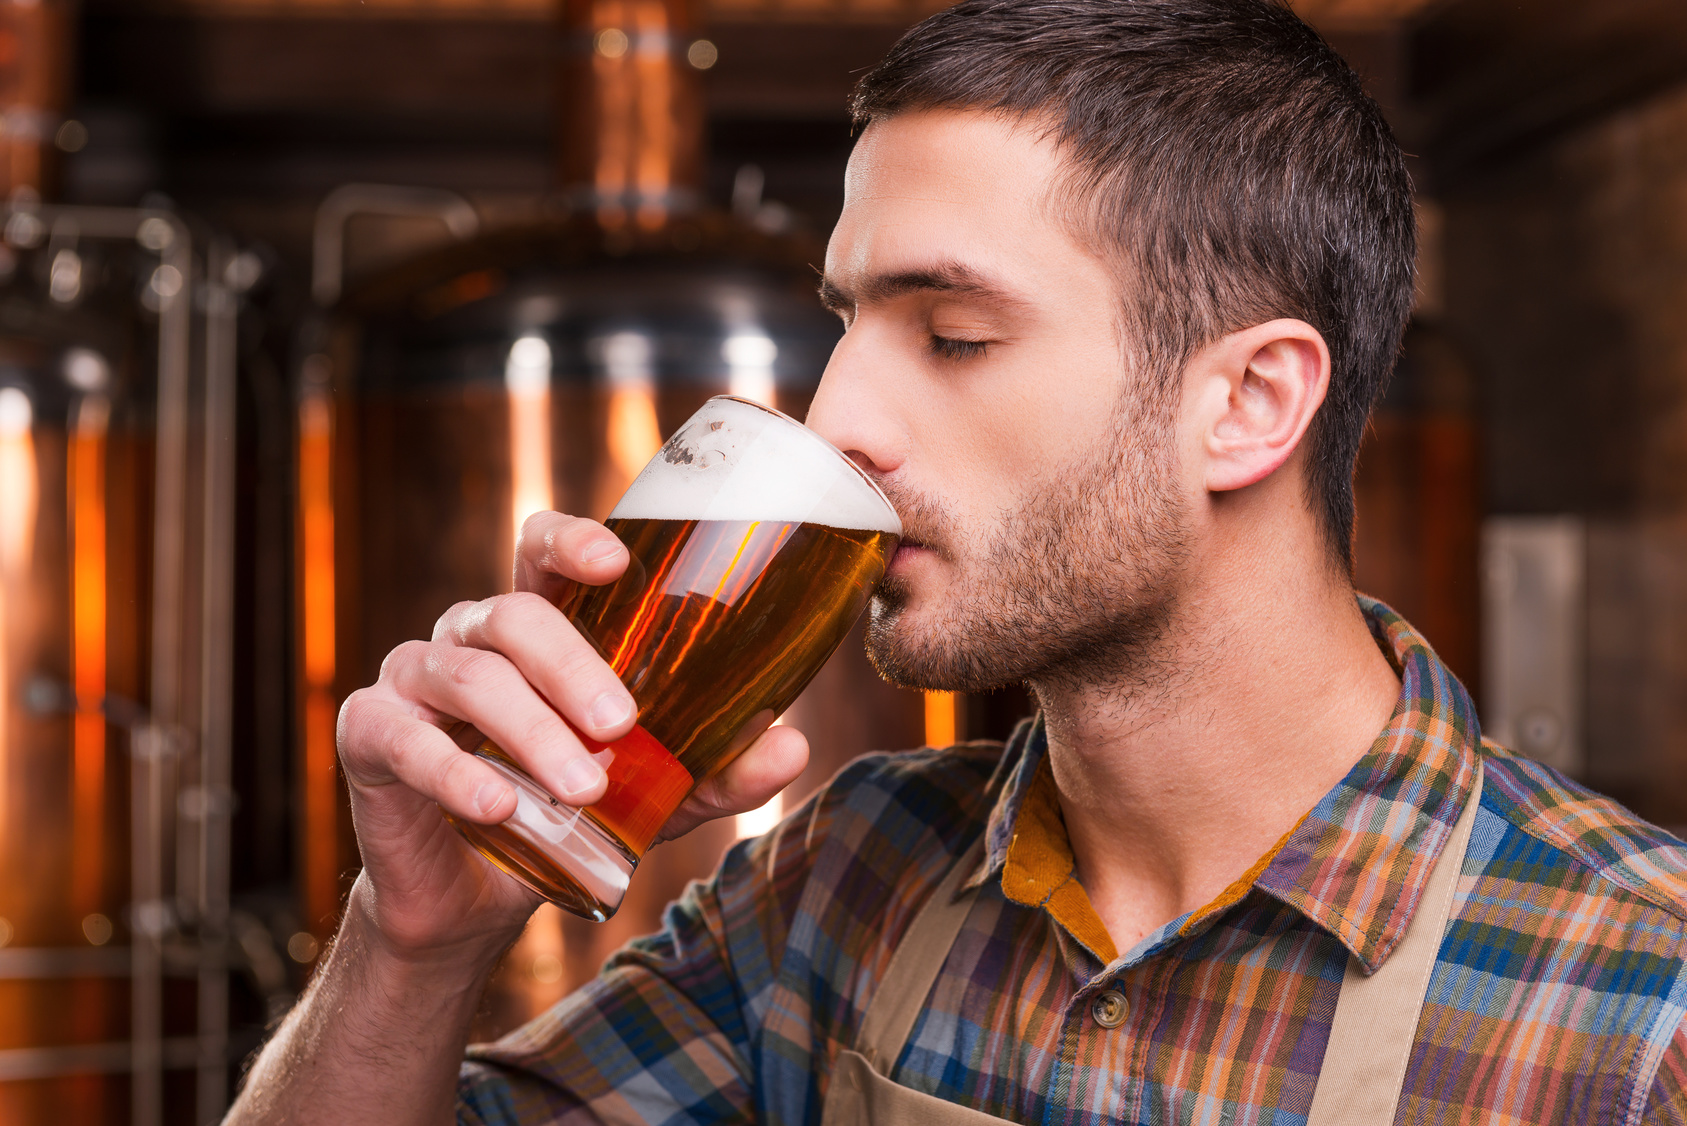
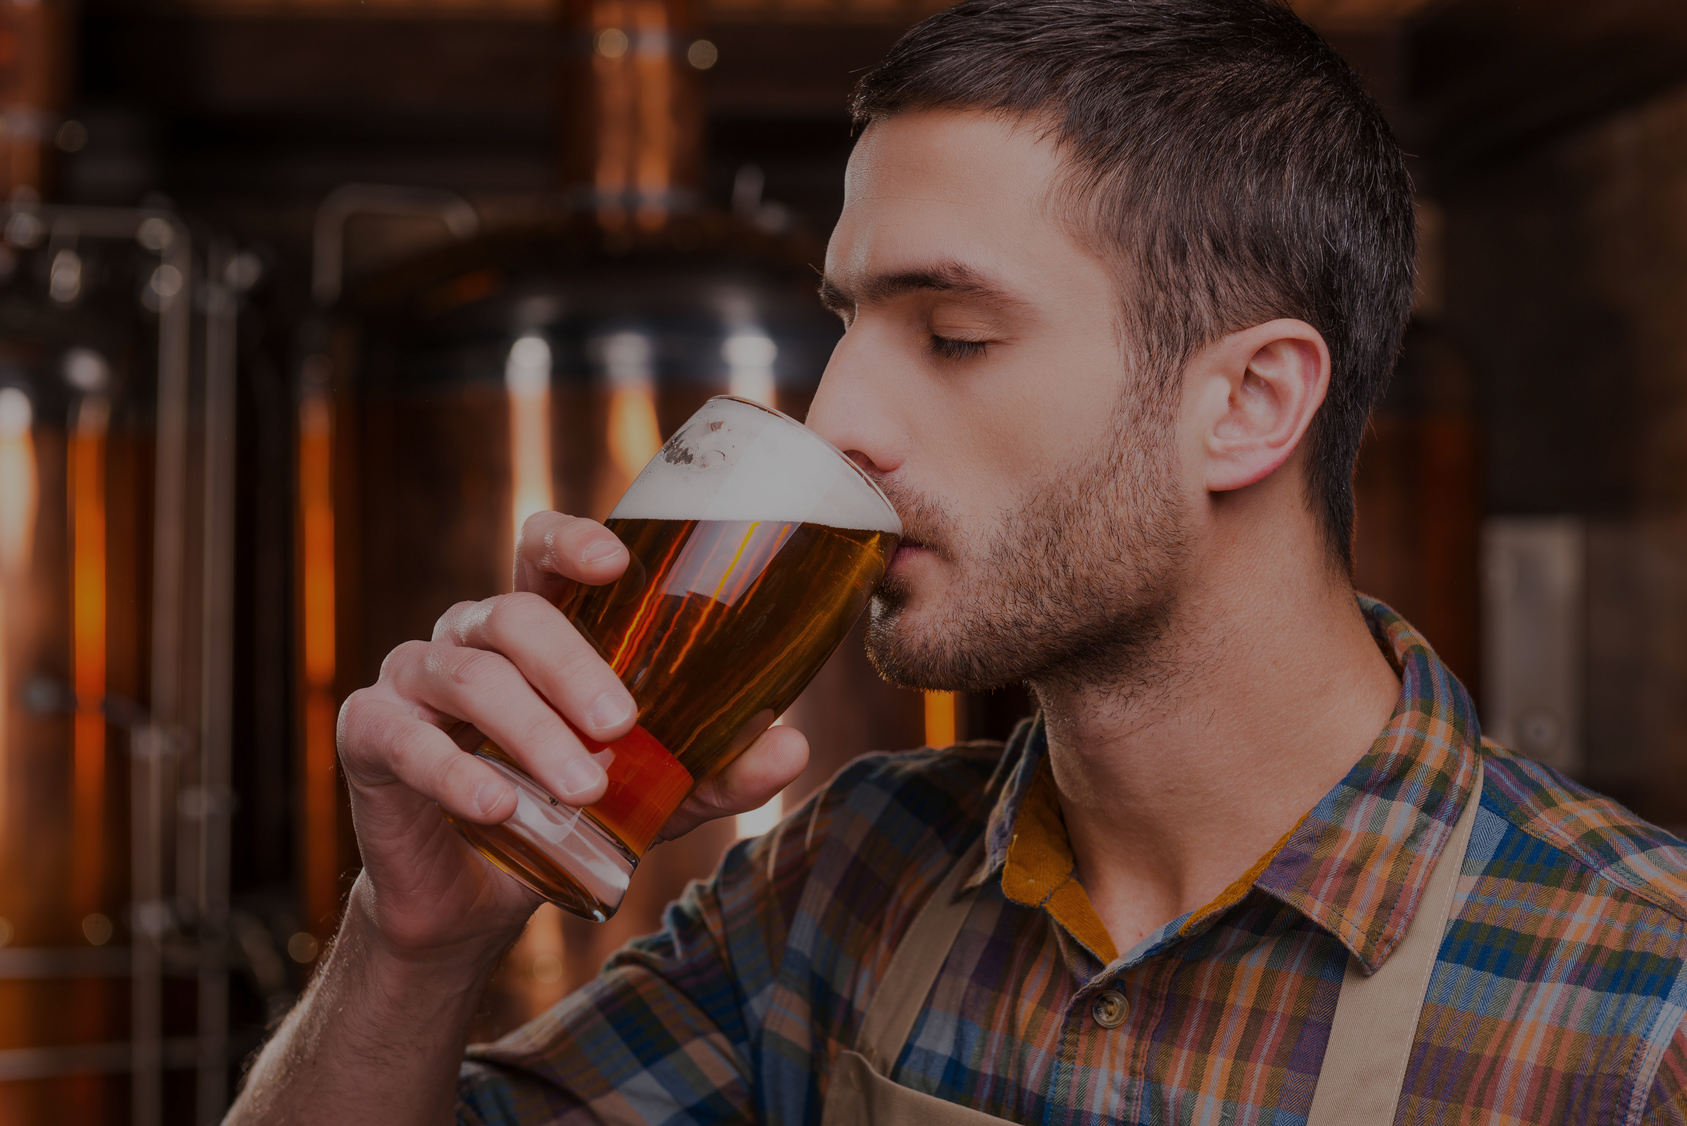
change code

diff --git a/Assignment/G.Assig/Story/index.html b/Assignment/G.Assig/Story/index.html
@@ -12,8 +12,8 @@
 
 <body>
     <header>
-        <section class="top_bar">
-            <img class="logo" src="images/Dandy_Brewing_Logo1_white.png" alt="logo" width="70px" height="auto">
+        <div class="top_bar">
+            <img class="logo" src="images/Dandy_Brewing_Logo1_white.png" alt="logo">
             <nav class="top">
                 <ul class="nav_links">
                     <li><a href="#">Home</a></li>
@@ -26,9 +26,9 @@
                 </ul>
             </nav>
             <a class="cta" href="#"><button>Contact</button></a>
-        </section>
+        </div>
         
-        <section class="social_bar">
+        <div class="social_bar">
             <nav class="social">
                 <ul>
                     <li class="twitter">
@@ -51,26 +51,27 @@
                     </li>
                 </ul>
             </nav>
-        </section>
+        </div>
+
+        <div class="chef">
+            <h1>chef. Chemist. Teacher. Business.</h1>
+            <p>the story goes back</p>
+        </div>
         
     </header>
 
     <main>
-        <section>
-            <div class="home-page-content">
-                <h2>Calgary's original little brewery</h2>
-                <p>We produce inspired ales, with lots of care.<br>
-                Our unique approach to brewing and keen eye to detail fosters creativity in both our recipes and beer styles.<br>
-                On site, we are pleased to offer a unique brewery experience featuring a full service tasting room restaurant with an exquisite menu of fine dining drinking food, a curated selection of cocktails, glass pours of selected wines, and 20 taps of Dandy beers.<br>
-                We share a passion for not only brewing, but the people, process, and experiences that make the experience so special.
-                </p>
-            </div>
-            <div class="story-page-content">
-                <h2> Chef. Chemist. Teacher. Business. </h2>
-                <p>The story goes back. Two high-school classmates begin a business, they graduated and went their separate ways. They cross paths again years later to discuss an interest, and a passion.</p>
-                <p>
-            </div>
-        </section>        
+        <div class="story-page-content">
+            <img class="logo" src="images/Dandy_Brewing_Logo_White.png" alt="logo" width="60px" height="auto">
+            <p> In the fall of 2013, the Alberta Gaming and Liquor Commission made sweeping changes to the brewing industry in Alberta, allowing small craft breweries to exist. It came at a perfect time. For years Ben Leon, a teacher, and Dylan Nosal, a chef, had been growing their home-brew experience, not only in size but also in knowledge. Over the course of a few years of practice, learning, and many batches, they began brewing exceptional beers on a home-built 1BBL brewhouse.</p>
+            <p>While honing skills, the two were developing a keen taste for the growing selection of Craft beer flooding into Alberta. Much of their guidance came from Matt Gaetz, a veteran of the liquor business in Alberta, and a close friend. Between the three of them, the topic of starting something amazing often came up over beers and brewing. They knew they wanted it, they just weren't sure it was possible under old laws. Changes in law meant it was possible. </p>
+            <p>Discussion after discussion, batch after batch, ideas developed into plans. What it always boiled down to was that the brewery would have to be exciting, forward thinking, and outside the traditional thought box for breweries in the province. Exciting beer styles, quality ingredients, and attention to every detail of production.</p>
+            <p>Cue the return of Derek Waghray, a high-school friend studying chemistry on the West coast. On his return to Calgary, and with   a new found interest in brewing and craft beer, he got in touch with an old high school friend. A home brew batch later, and a discussion of wild dreams, he was added to the group. He was a much needed addition bringing expertise in laboratory process and a deep understanding of the science behind the beer.</p>
+            <p>When the laws were officially changed in December 2013, the four Dandies moved quickly to hammer out the final details for The Dandy Brewing Company. </p>
+            <p>In January 2014 the Dandy Brewing Company was incorporated. April 2014 the lease was signed. June 2014 the brewhouse was built. August 2014 the brewing began. September 2014 the beer hit the shelves. April 2015 the first draught accounts started pouring. November 2015 the Tap Room opened. January 2016 a three-fold expansion of capacity was completed.</p>
+            <p>April 2018 saw the opening of the The Dandy Brewing Company and Tasting Room, a new production facility and full service tasting room located in the heart of Ramsay, Calgary. Fine Dining drinking food. Dandy beers. Cocktails. wine. The full Dandy experience.</p>
+            <img class="logo" src="images/Dandy_Brewing_Logo_white.png" alt="logo" width="60px" height="auto">
+        </div>        
         
     </main>
     

diff --git a/Assignment/G.Assig/Story/style.css b/Assignment/G.Assig/Story/style.css
@@ -8,8 +8,6 @@
 
 body{
     font-family: 'Gill Sans', 'Gill Sans MT', Calibri, 'Trebuchet MS', sans-serif;
-    height: 5px;
-    background-color: white;
 }
 
 header{
@@ -17,10 +15,10 @@ header{
     background-size: cover;
     position: relative;
     display: block;
-    height: 100vh;
+    height: 65vh;
 }
 
-section.top_bar{
+div.top_bar{
     display: flex;
     justify-content: space-between;
     align-items: center;
@@ -32,6 +30,8 @@ section.top_bar{
 
 img.logo{
     cursor: pointer;
+    width: 70px;
+    height: auto;
 }
 
 
@@ -127,51 +127,45 @@ nav.social{
     background-color: #d80202;
 }
 
+.chef{
+    font-family: Kristen ITC;
+    position: absolute;
+    width: 400px;
+    height: 300px;
+    text-align: center;
+    margin: 7% 70% 7% 7%;
+    text-transform: capitalize;
+    color: rgb(209, 94, 28, 0.7);
+}
+.chef p{
+    color: gray;
+}
+
 main{
-    background: rgb(243, 237, 210);
-    height: 50vh;
+    background: black;
+    height: 210vh;
 }
 
 
-
-.container{
-    display: grid;
-    grid-template-columns: 1fr, 1fr;
-    grid-template-rows: 1fr;
-    padding: 30px;
+.story-page-content{
+    font-family: Kristen ITC;
+    text-align: center;
+    line-height: 20px;
+    padding: 7%;
     margin: 0px;
 }
 
-.content{
-    font-family: 'Gill Sans', 'Gill Sans MT', Calibri, 'Trebuchet MS', sans-serif;
-    margin: 0;
-    padding: 20px;
-    grid-column: 2/4;
-    grid-row: 1/1;
-}
-
-h2{
-    color:rgb(209, 94, 28);
-    text-transform: uppercase;
-    font-size: 18px;
-    text-align: left;
-}
-
-.content > p{
-    float: left;
-    font-size: 12px;
-    padding: 0px;
+p{
+    font-size: 15px;
+    color: grey;
+    padding: 12px;
     margin: 0px;
-    text-align: left;
+    text-align: center;
     letter-spacing: 0.5px;
+    line-height: 30px;
 }
 
-.image1{
-    margin: 0 10px;
-    padding: 20px;
-    grid-row: 1/1;
-    grid-column: 1/1;
-}
+
 
 
 

diff --git a/Assignment/G.Assig/Main/index.html b/Assignment/G.Assig/Main/index.html
@@ -13,7 +13,7 @@
 <body>
     <header>
         <div class="top_bar">
-            <img class="logo" src="images/Dandy_Brewing_Logo1_white.png" alt="logo" width="70px" height="auto">
+            <img class="logo" src="images/Dandy_Brewing_Logo1_white.png" alt="logo">
             <nav class="top">
                 <ul class="nav_links">
                     <li><a class="active" href="#">Home</a></li>
@@ -52,10 +52,11 @@
                 </ul>
             </nav>
         </div>
-        
+      
     </header>
 
     <main>
+        <img class="logo" src="images/Dandy_Brewing_Logo_Black.png" alt="logo" width="60px" height="auto">
         <div class="container">
             <div class="content">
                 <h2>Calgary's original little brewery</h2>
@@ -68,21 +69,10 @@
             <div class="image1">
                 <img src="images/beer_barrel.png" alt="icon_beer" alt="factory_image" height="100px" width="auto">
             </div>
-        </div>        
+        </div>
+        <img class="logo" src="images/Dandy_Brewing_Logo_Black.png" alt="logo" width="60px" height="auto">        
         
     </main>
-    
-    <footer>
-        <section>
-            <img class="logo" src="images/Dandy_Brewing_Logo_White.png" alt="logo" width="70px" height="auto">
-            <h4>the dandy brewing company and tasting room, 2003 11 street southeast, calagary, ab, t2g 3g6, canada.</h4>
-            <p> All rights reserved. 2020. The Dandy Brewing Company Ltd.<br>
-            Photos by Arif Ansari and Chris Wideman and Matt Wickens <br>
-            Powered by Squarespace
-            </p>
-        </section>
-        
-    </footer>
 
 </body>
 </html>

diff --git a/Assignment/G.Assig/Main/style.css b/Assignment/G.Assig/Main/style.css
@@ -21,6 +21,7 @@ header{
 }
 
 div.top_bar{
+
     display: flex;
     justify-content: space-between;
     align-items: center;
@@ -32,6 +33,8 @@ div.top_bar{
 
 img.logo{
     cursor: pointer;
+    width: 70px;
+    height: auto;
 }
 
 
@@ -76,7 +79,7 @@ button:hover{
 
 nav.social{
     position: fixed;
-    top: 20%;
+    top: 25%;
 }
 
 .social ul{
@@ -139,15 +142,16 @@ main{
 
 
 .container{
+    position: absolute;
     display: grid;
     grid-template-columns: 1fr, 1fr;
     grid-template-rows: 1fr;
-    padding: 30px;
+    padding: 2%;
     margin: 0px;
 }
 
 .content{
-    font-family: 'Gill Sans', 'Gill Sans MT', Calibri, 'Trebuchet MS', sans-serif;
+    font-family: Kristen ITC;
     margin: 0;
     padding: 20px;
     grid-column: 2/4;
@@ -156,7 +160,7 @@ main{
 
 h2{
     color:rgb(209, 94, 28);
-    text-transform: uppercase;
+    text-transform: capitalize;
     font-size: 18px;
     text-align: left;
 }
@@ -168,6 +172,7 @@ h2{
     margin: 0px;
     text-align: left;
     letter-spacing: 0.5px;
+    line-height: 20px;
 }
 
 .image1{
